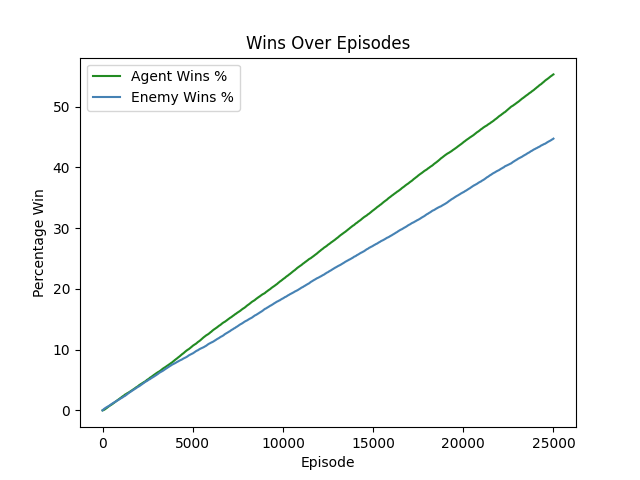
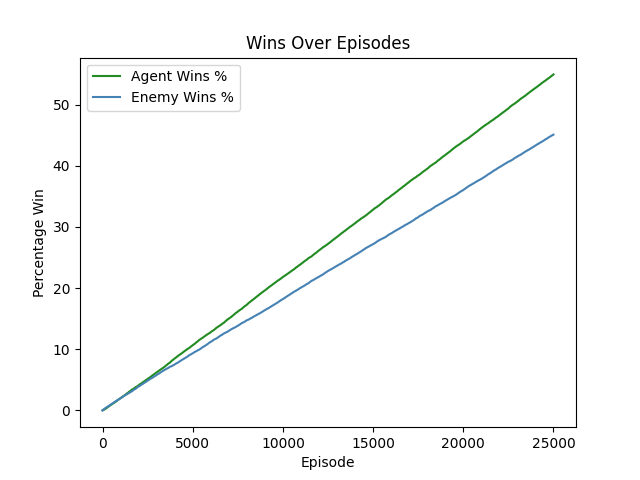
update dq_learning self play

diff --git a/training/dqn/dq_learning.py b/training/dqn/dq_learning.py
@@ -19,7 +19,7 @@ import os
 from training.utils import draw_wins_plot_over_episodes
 
 
-SELF_PLAY = False
+SELF_PLAY = True
 
 # For printing date and time
 DATE_FORMAT = "%m-%d %H:%M:%S"
